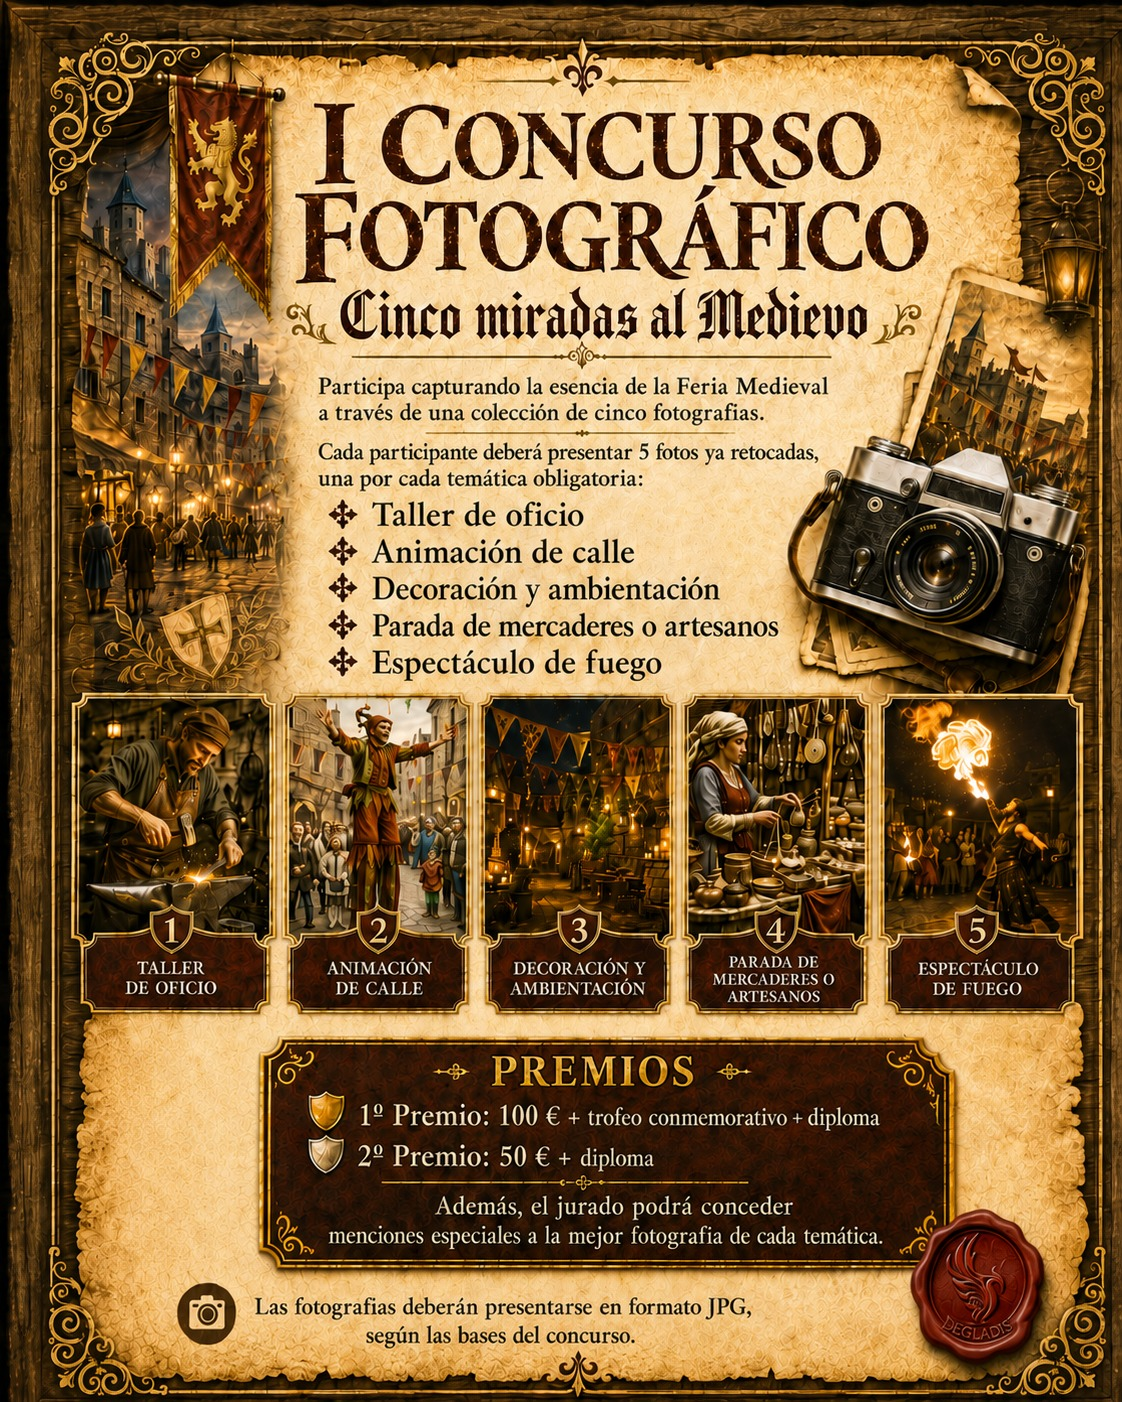
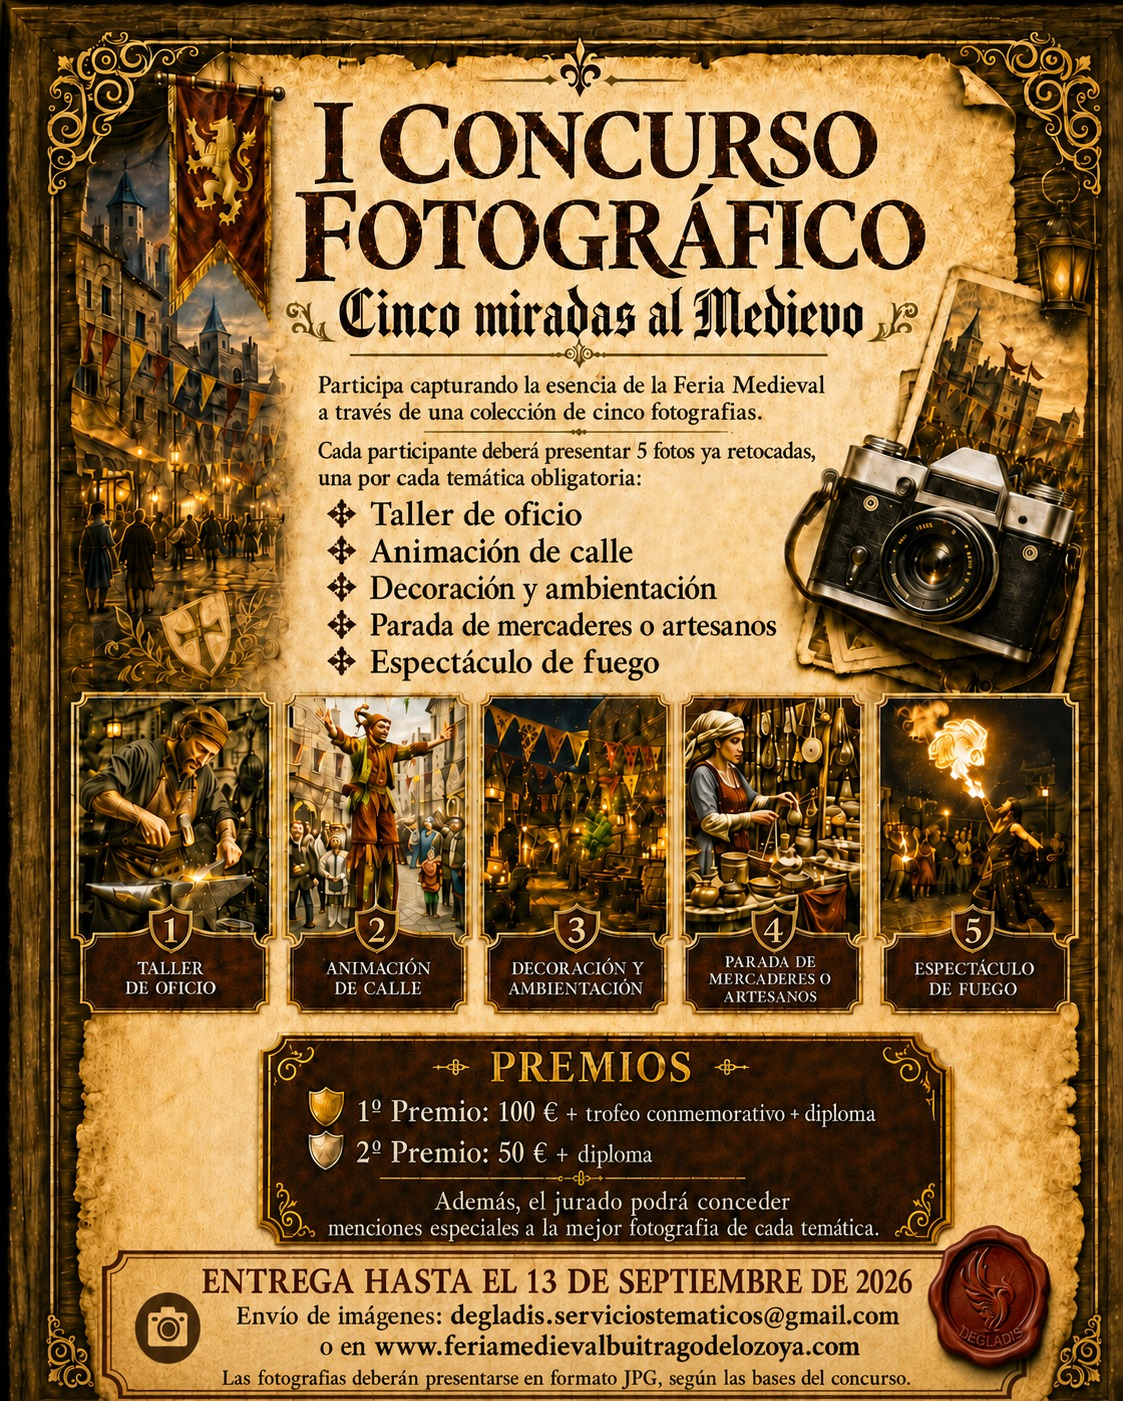
Replace contest poster with final contact version

diff --git a/concurso.html b/concurso.html
@@ -28,7 +28,7 @@
     </div>
     <figure class="hero-poster">
       <button class="poster-zoom" type="button" aria-haspopup="dialog" aria-controls="poster-lightbox" title="Ampliar cartel del concurso">
-        <img src="assets/concurso-cinco-miradas.jpg?v=2" alt="Cartel del I Concurso Fotográfico Cinco miradas al Medievo">
+        <img src="assets/concurso-cinco-miradas.jpg?v=3" alt="Cartel del I Concurso Fotográfico Cinco miradas al Medievo">
         <span>Ampliar cartel ⤢</span>
       </button>
       <a class="poster-download" href="assets/concurso-cinco-miradas.jpg" download="Cartel-Cinco-miradas-al-Medievo.jpg">Descargar cartel ↓</a>
@@ -139,7 +139,7 @@
 </main>
 <dialog class="poster-lightbox" id="poster-lightbox" aria-label="Cartel ampliado del concurso">
   <button class="poster-lightbox-close" type="button" aria-label="Cerrar cartel ampliado">×</button>
-  <img src="assets/concurso-cinco-miradas.jpg?v=2" alt="Cartel ampliado del I Concurso Fotográfico Cinco miradas al Medievo">
+  <img src="assets/concurso-cinco-miradas.jpg?v=3" alt="Cartel ampliado del I Concurso Fotográfico Cinco miradas al Medievo">
 </dialog>
 <footer><div class="wrap contest-footer"><div><strong>XXIV FERIA MEDIEVAL</strong><span>Buitrago del Lozoya · 3–6 septiembre 2026</span></div><nav aria-label="Enlaces legales"><a href="legal.html#aviso-legal">Aviso legal</a><a href="legal.html#privacidad">Privacidad</a><a href="legal.html#cookies">Cookies</a><button type="button" data-cookie-settings>Configurar cookies</button></nav></div></footer>
 <script src="privacy.js"></script>
